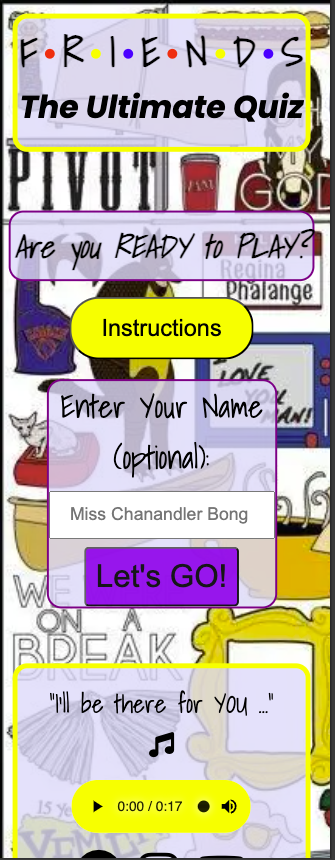
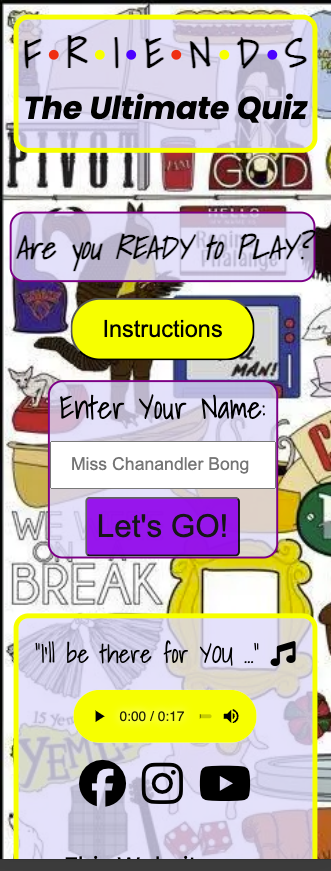
Make final changes before submission

diff --git a/assets/js/script.js b/assets/js/script.js
@@ -126,7 +126,8 @@ function startQuiz() {
 
     loadQuestion();
 }
-// Load the questions and hide the start area when Start Button is clicked
+// Load the questions 
+//Return a message to the user at the end of the quiz, depending on their score
 function loadQuestion() {
     if (currentQuestionIndex >= questions.length) {
         gameArea.classList.add('hidden');
@@ -184,7 +185,7 @@ function checkAnswer(button) {
             }
         });
     }
-    
+    //Load next question after the timer expires
     setTimeout (() => {
         currentQuestionIndex++;
         loadQuestion();

diff --git a/README.md b/README.md
@@ -1,7 +1,7 @@
 ## F.R.I.E.N.D.S The Ultimate Quiz
 ![logo](./assets/readme-images/logo.png)
 
-Frinds The Ultimate Quiz is a trivia game inspired by the so called famous tv show. 
+Frinds The Ultimate Quiz is a trivia game inspired by the famous tv show. 
 
 The Website is live now on [here](https://dianastrahilova.github.io/friends-quiz-pp2/)!
 
@@ -12,7 +12,7 @@ The Website is live now on [here](https://dianastrahilova.github.io/friends-quiz
 
 #### Purpose 
 The quiz is designed to challenge the knowledge of users, containing ten fun quiestions from the show.
-After clicking on an option, the user is immediately notified if their choice was correct or incorrect by highlighting the correct/incorrect answers. The final score shows the number of correct/incorrect answers, along with a congatulating message with the users' name and an engaging 'Play Again?' button.
+After clicking on an option, the user is immediately notified if their choice was correct or incorrect by highlighting the right and wrong answer. The final score shows the number of correct/incorrect answers, along with a congatulating message with the user's name and an engaging 'Play Again?' button.
 
 #### Audience 
 The quiz targets anyone who has ever watched the show to test their knowledge, while also having fun.
@@ -33,7 +33,7 @@ The design of the website is simple, fun and engaging. The user can start the qu
 ___
  **Start Area**
 
- The start area is displays the Friends Logo inside the header. Followed by the main content: a challeging heading "Are you READY to PLAY?", a pop up modal with instructions, an input field for the user's name and a start button.There is also a background image containing a collage of images with all the characters from Friends. It changes to a different one on smaller devices. The footer contains a snippet with the theme song and social media icons. 
+ The start area is displays the Friends Logo inside the header. Followed by the main content: a challeging heading "Are you READY to PLAY?", a pop up modal with instructions, an input field for the user's name and a start button.There is also a background image containing a collage of images with all the characters from Friends. It changes to a different one on smaller devices. The footer contains a snippet with the theme song and social media links/icons. 
 
   Desktop
   ![](./assets/readme-images/main.png)
@@ -76,7 +76,7 @@ Mobile Quiz
 
 **Score**
 
-The score is displayed at the end of the game and displays a message with the users's name the number of correct/incorrect answers. Also alerts if there is a new high score.
+The score is revealed at the end of the game and displays a message with the users's name and the number of correct/incorrect answers. Also alerts if there is a new high score.
 
 Desktop score 
 
@@ -91,7 +91,7 @@ Desktop score
 
 - Website was tested and works in different browsers.
 - The website is also responsive to all smaller devices, looks and functions good.
-- The sign up form works and requires entries in every field.
+- The input field works and requires entry.
 
 
 **Validator Testing**
@@ -149,7 +149,8 @@ The content and media were taken from the followig resources:
    - The images were donwloaded from [Pinterest](https://www.pinterest.de/pin/707417053995815680/).
    - The modal idea from [YouTube Kevin Powell](https://www.youtube.com/watch?v=TAB_v6yBXIE&t=372s).
    - Resizing images [TinyPNG](https://tinypng.com/).
-   - The Social Media Icons and the Triple Bar icon were downloaded from [Font Awesome](https://fontawesome.com/).
+   - The Social Media Icons were downloaded from [Font Awesome](https://fontawesome.com/).
    - Google Fonts was used to define the fonts in the stylesheet [Google Fonts](https://fonts.google.com/).
    - To troubleshoot and test features, solve issues with responsiveness and styling [Google Developer Tools](https://developer.chrome.com/docs/).
    - To cut and resize audio file [Mp3Cut](https://mp3cut.net/).
+   - To generate a Favicon - [Favicon](https://favicon.io/emoji-favicons/).
